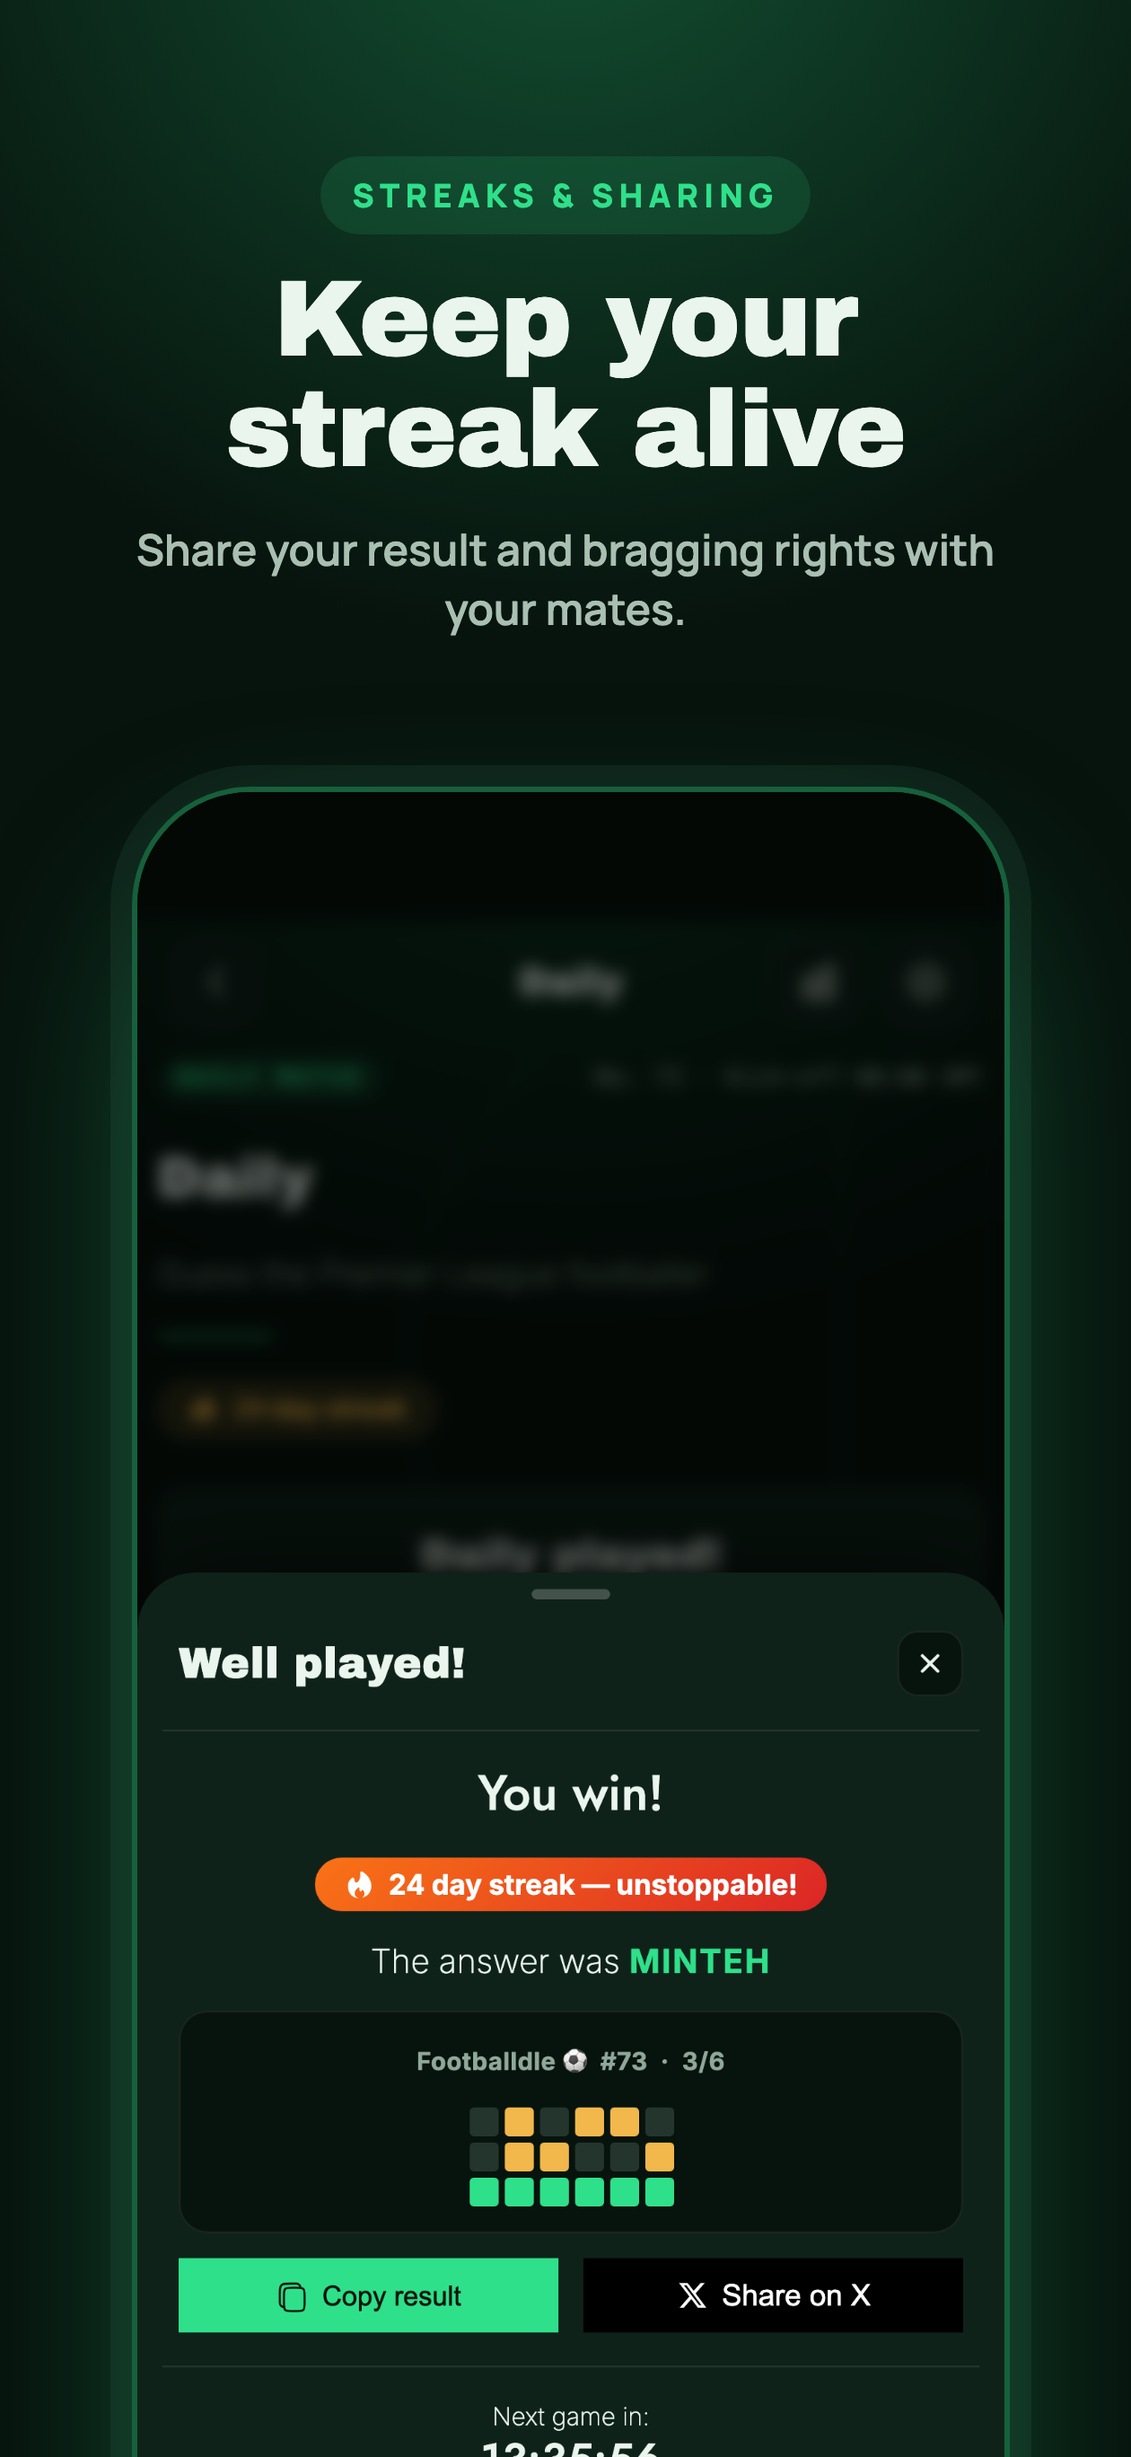
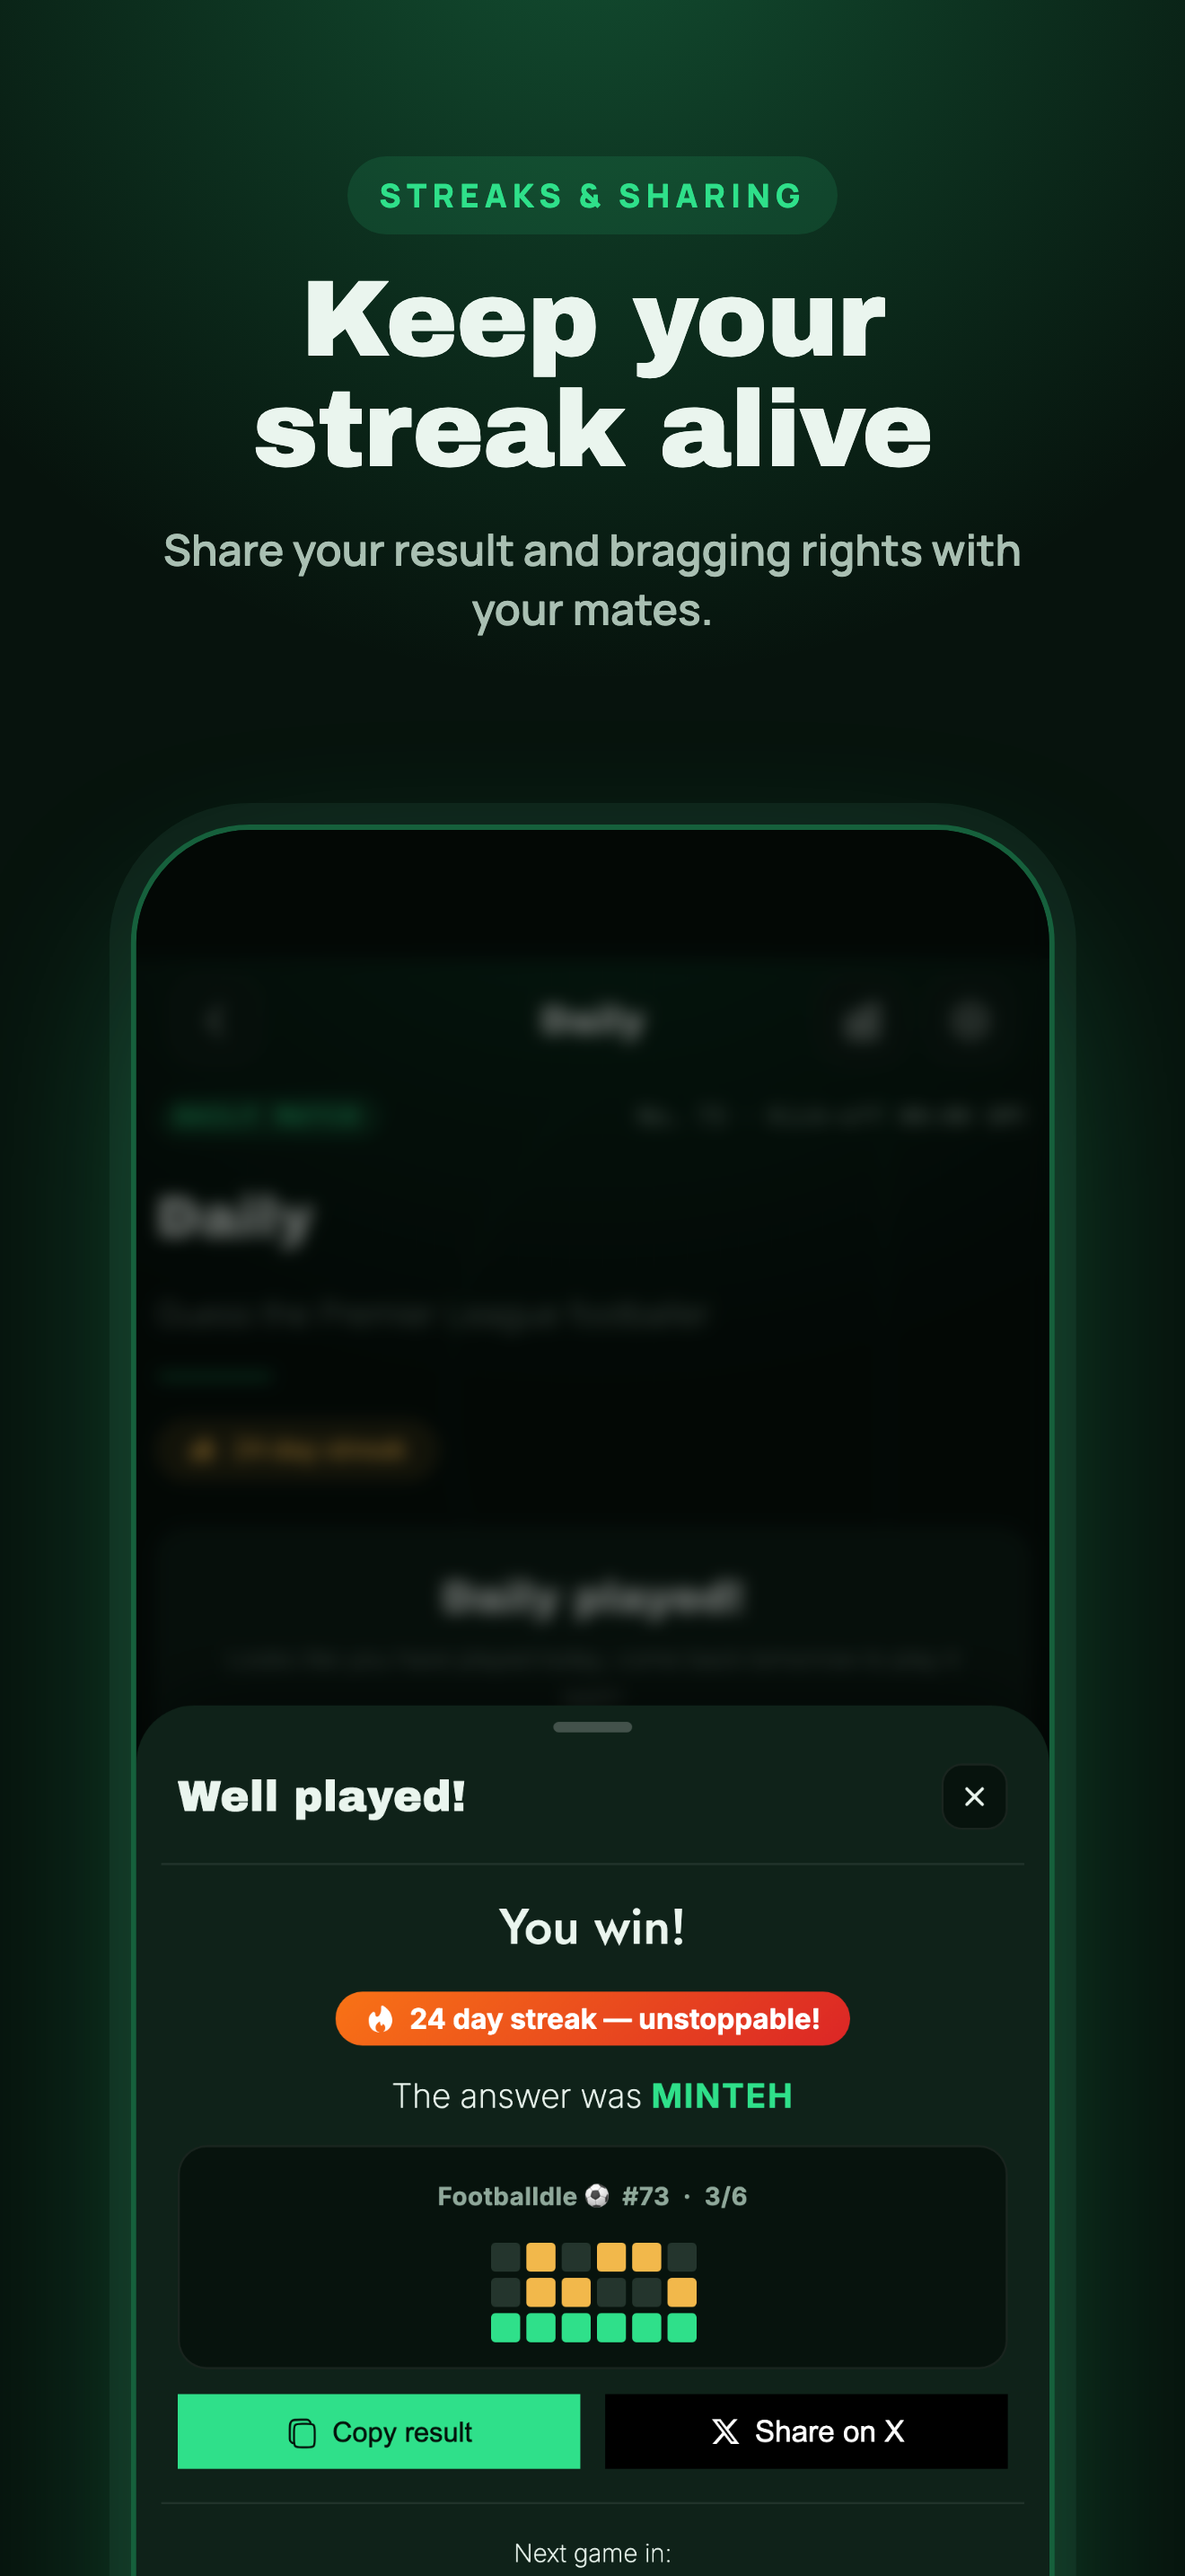
Regenerate App Store screenshots at accepted sizes
6.9" at 1320x2868 and 6.5" at 1284x2778, replacing the 1260x2736 set
that App Store Connect rejected.

diff --git a/app-store/LISTING.md b/app-store/LISTING.md
@@ -83,18 +83,24 @@ Kick-off! Footballdle lands on iPhone with three daily modes, activity rings, Ga
 | Privacy Policy URL | https://footballdle.co.uk/privacy-policy |
 | Copyright | 2026 [YOUR NAME] |
 
-## Screenshots (6.9" iPhone, 1260 × 2736)
+## Screenshots
 
-Upload in this order. App Store Connect scales them down for smaller iPhones.
+Two sets, one per display slot in App Store Connect (version page → Previews and Screenshots).
+Upload the same six, in this order, into each slot:
 
-1. `screenshots/iphone-6.9/captioned/01-guess.png`
-2. `screenshots/iphone-6.9/captioned/02-matchday.png`
-3. `screenshots/iphone-6.9/captioned/03-streak.png`
-4. `screenshots/iphone-6.9/raw/05-scout.png`
-5. `screenshots/iphone-6.9/raw/06-spot.png`
-6. `screenshots/iphone-6.9/raw/04-stats.png`
+| Slot | Folder | Size |
+|---|---|---|
+| iPhone 6.9" Display | `screenshots/iphone-6.9/` | 1320 × 2868 |
+| iPhone 6.5" Display | `screenshots/iphone-6.5/` | 1284 × 2778 |
 
-The other raw shots in `screenshots/iphone-6.9/raw/` work as alternates.
+1. `captioned/01-guess.png`
+2. `captioned/02-matchday.png`
+3. `captioned/03-streak.png`
+4. `raw/05-scout.png`
+5. `raw/06-spot.png`
+6. `raw/04-stats.png`
+
+The other files in `raw/` work as alternates.
 
 ## Trademark note
 
